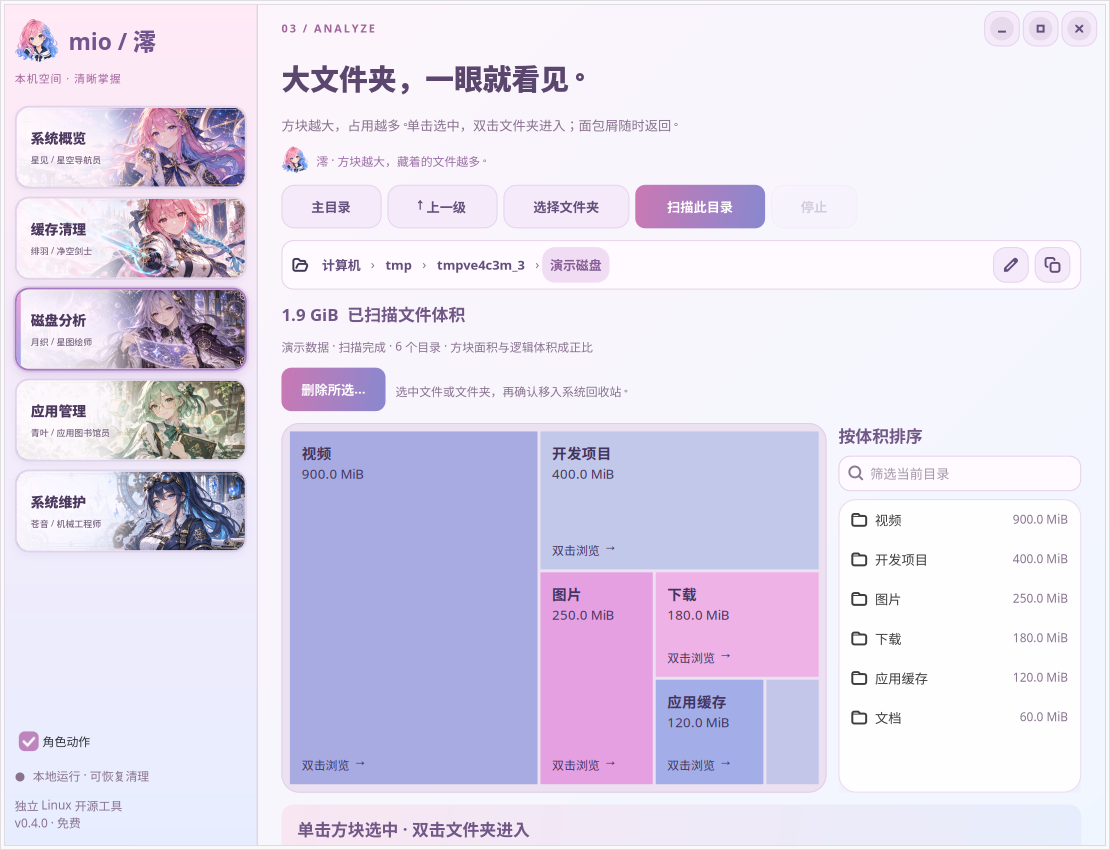
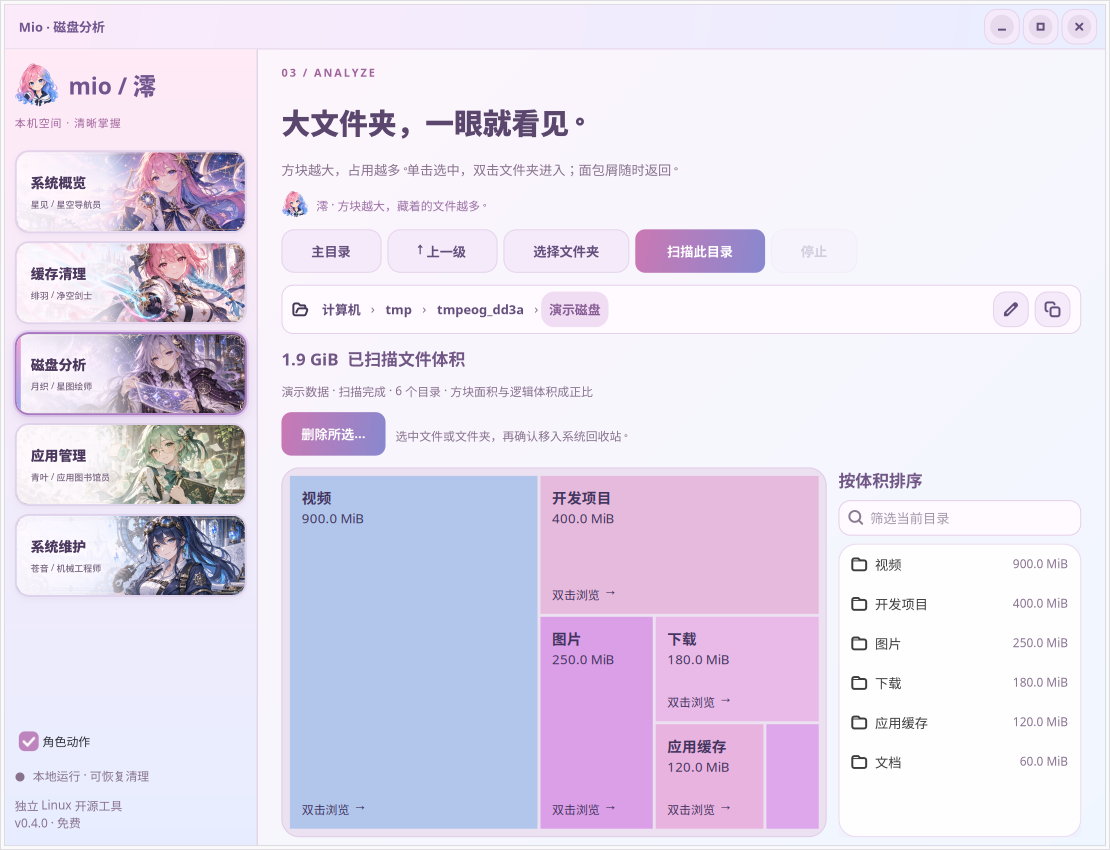
Restore reliable window dragging and sidebar access with a dedicated titlebar

diff --git a/mio_linux/anime.css b/mio_linux/anime.css
@@ -50,7 +50,6 @@ tooltip { background: #695578; color: #fff5ff; border-radius: 10px; }
 
 /* Layout changes use native breakpoints, retaining full-size touch targets. */
 flowboxchild { padding: 0; }
-.compact-sidebar .eyebrow { padding-left: 40px; }
 .narrow-layout .page { padding: 18px 14px 24px; }
 .narrow-layout .page-title { font-size: 24px; }
 .narrow-layout .hero { padding: 18px; }
@@ -59,3 +58,6 @@ flowboxchild { padding: 0; }
 
 .short-layout .page { padding-top: 16px; }
 .short-layout .page-title { font-size: 23px; }
+
+.window-toolbar { padding: 4px 8px; min-height: 34px; background: linear-gradient(100deg, #fbeafa, #e9eeff); border-bottom: 1px solid #e2cfea; }
+.window-title { color: #71558e; font-size: 13px; font-weight: 700; padding-left: 6px; }

diff --git a/tests/smoke_responsive.py b/tests/smoke_responsive.py
@@ -31,6 +31,26 @@ def capture(w, name):
     texture.save_to_png(str(output / name))
 
 
+def hit(widget, window):
+    valid, bounds = widget.compute_bounds(window)
+    assert valid
+    picked = window.pick(bounds.get_x() + bounds.get_width() / 2,
+                         bounds.get_y() + bounds.get_height() / 2, Gtk.PickFlags.DEFAULT)
+    assert picked is not None
+    assert picked is widget or picked.is_ancestor(widget), ('blocked hit target', type(widget).__name__, type(picked).__name__)
+
+
+def advance(w):
+    global index, phase, ready_at
+    index += 1
+    if index == len(cases):
+        w.confirm_operation('移入系统回收站？', str(root / ('long-name-' * 20)) + '\n确认后可恢复。', lambda: None)
+        ready_at = time.monotonic() + .5
+        phase = 3
+    else:
+        phase = 1
+
+
 def tick():
     global phase, index, ready_at, ok
     w = app.window
@@ -55,6 +75,12 @@ def tick():
             assert all(d.get_visible() == (height > 680) for d in w.page_decorations)
             assert w.split_view.get_collapsed() == (width <= 1000)
             assert (w.chart_row.get_orientation() == Gtk.Orientation.VERTICAL) == (width <= 740)
+            assert isinstance(w.window_handle, Gtk.WindowHandle)
+            valid, title_bounds = w.window_title.compute_bounds(w)
+            picked = w.pick(title_bounds.get_x() + title_bounds.get_width() / 2,
+                            title_bounds.get_y() + title_bounds.get_height() / 2, Gtk.PickFlags.DEFAULT)
+            assert picked is w.window_handle or picked.is_ancestor(w.window_handle), 'titlebar drag region obstructed'
+            assert w.window_handle.get_height() >= 34
             scroller = w.stack.get_visible_child()
             adj = scroller.get_hadjustment()
             assert adj.get_upper() <= adj.get_page_size() + 2, (page, width, 'horizontal overflow')
@@ -71,18 +97,20 @@ def tick():
             inspect(scroller.get_child())
             if page == 'disk':
                 capture(w, f'responsive-{width}x{height}.png')
-                if width == 420:
+                if width <= 1000:
+                    hit(w.menu_toggle, w)
                     w.menu_toggle.emit('clicked')
                     assert w.split_view.get_show_sidebar()
-                    w.navigate('cache')
-                    assert not w.split_view.get_show_sidebar()
-            index += 1
-            if index == len(cases):
-                w.confirm_operation('移入系统回收站？', str(root / ('long-name-' * 20)) + '\n确认后可恢复。', lambda: None)
-                ready_at = time.monotonic() + .5
-                phase = 3
-            else:
-                phase = 1
+                    ready_at = time.monotonic() + .4
+                    phase = 4
+                    return True
+            advance(w)
+        elif phase == 4 and time.monotonic() >= ready_at:
+            hit(w.nav['cache'], w)
+            w.nav['cache'].emit('clicked')
+            assert w.stack.get_visible_child_name() == 'cache'
+            assert not w.split_view.get_show_sidebar()
+            advance(w)
         elif phase == 3 and time.monotonic() >= ready_at:
             dialog = w.last_review_dialog
             assert 0 < dialog.get_width() <= w.get_width(), ('dialog width', dialog.get_width())

diff --git a/mio_linux/app.py b/mio_linux/app.py
@@ -154,16 +154,27 @@ class Window(OperationsUI, Adw.ApplicationWindow):
         split.set_sidebar(sidebar_scroll)
         split.set_content(self.stack)
         outer.set_child(split)
-        controls = Gtk.WindowControls(side=Gtk.PackType.END, halign=Gtk.Align.END, valign=Gtk.Align.START, margin_top=6, margin_end=8)
         self.celebration = SlashCelebration()
         outer.add_overlay(self.celebration)
-        outer.add_overlay(controls)
-        self.menu_toggle = Gtk.Button(icon_name="sidebar-show-symbolic", tooltip_text="显示功能导航",
-                                      halign=Gtk.Align.START, valign=Gtk.Align.START, margin_top=6, margin_start=8,
-                                      visible=False)
+        # Reserve a real titlebar row: overlays must not cover navigation or
+        # leave dragging dependent on small labels inside a scrolling page.
+        header = box(False, 8, "window-toolbar")
+        self.menu_toggle = Gtk.Button(icon_name="sidebar-show-symbolic", tooltip_text="显示／收起功能导航",
+                                      valign=Gtk.Align.CENTER, visible=False)
         self.menu_toggle.connect("clicked", lambda _: split.set_show_sidebar(not split.get_show_sidebar()))
-        outer.add_overlay(self.menu_toggle)
-        self.set_content(outer)
+        header.append(self.menu_toggle)
+        self.window_title = label("Mio · 澪", "window-title")
+        self.window_title.set_hexpand(True)
+        self.window_title.set_ellipsize(Pango.EllipsizeMode.END)
+        self.window_title.set_can_target(False)
+        header.append(self.window_title)
+        header.append(Gtk.WindowControls(side=Gtk.PackType.END, valign=Gtk.Align.CENTER))
+        self.window_handle = Gtk.WindowHandle(child=header)
+        shell = box(spacing=0)
+        shell.append(self.window_handle)
+        outer.set_vexpand(True)
+        shell.append(outer)
+        self.set_content(shell)
         self.build_overview()
         self.build_cache()
         self.build_disk()
@@ -243,6 +254,8 @@ class Window(OperationsUI, Adw.ApplicationWindow):
         if self.split_view.get_collapsed():
             self.split_view.set_show_sidebar(False)
         self.stack.set_visible_child_name(key)
+        titles = {"overview": "系统概览", "cache": "缓存清理", "disk": "磁盘分析", "apps": "应用管理", "maintenance": "系统维护"}
+        self.window_title.set_label("Mio · " + titles[key])
         for name, nav in self.nav.items():
             (nav.add_css_class if name == key else nav.remove_css_class)("active")
         if key == "apps" and key not in self.completed:
